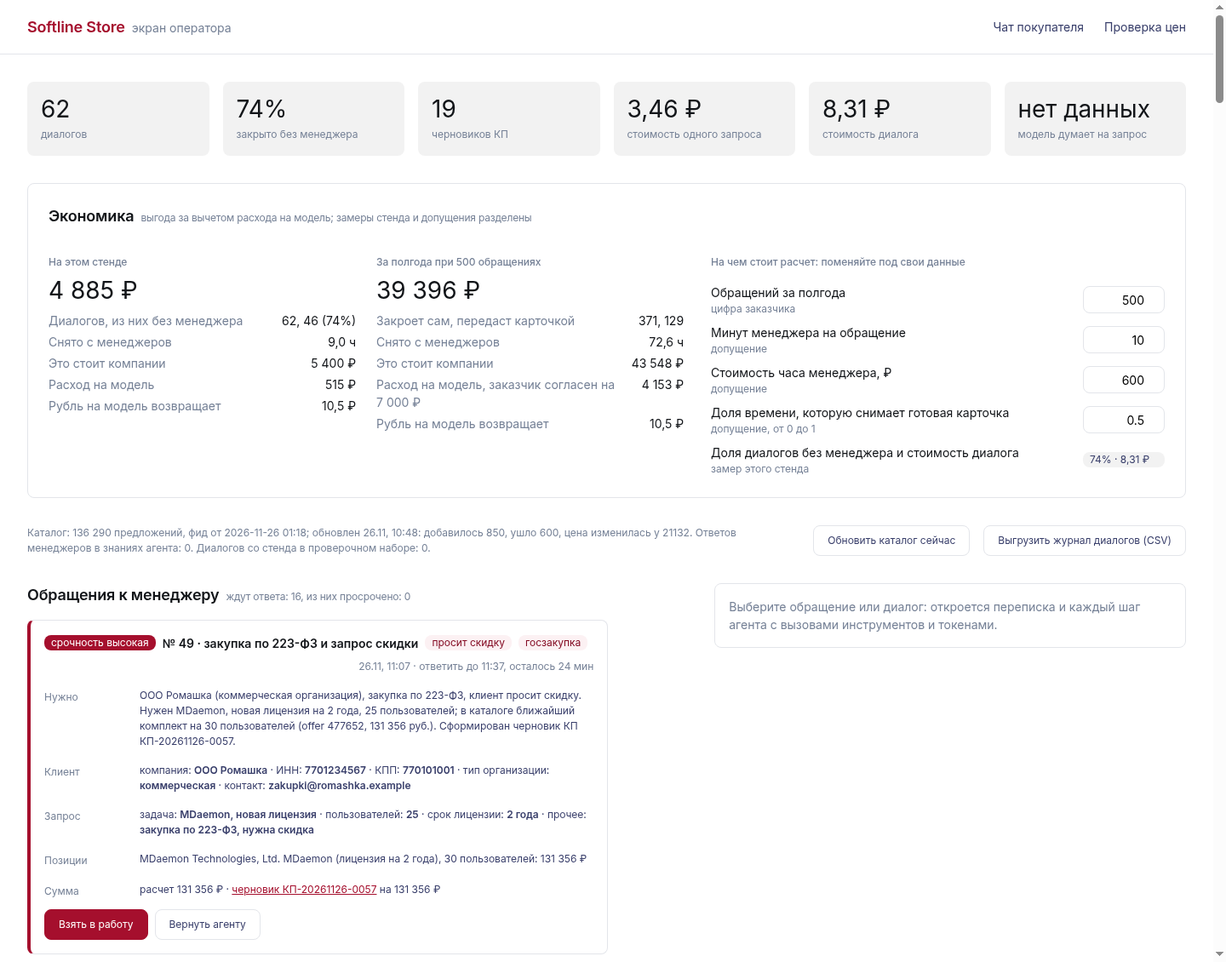
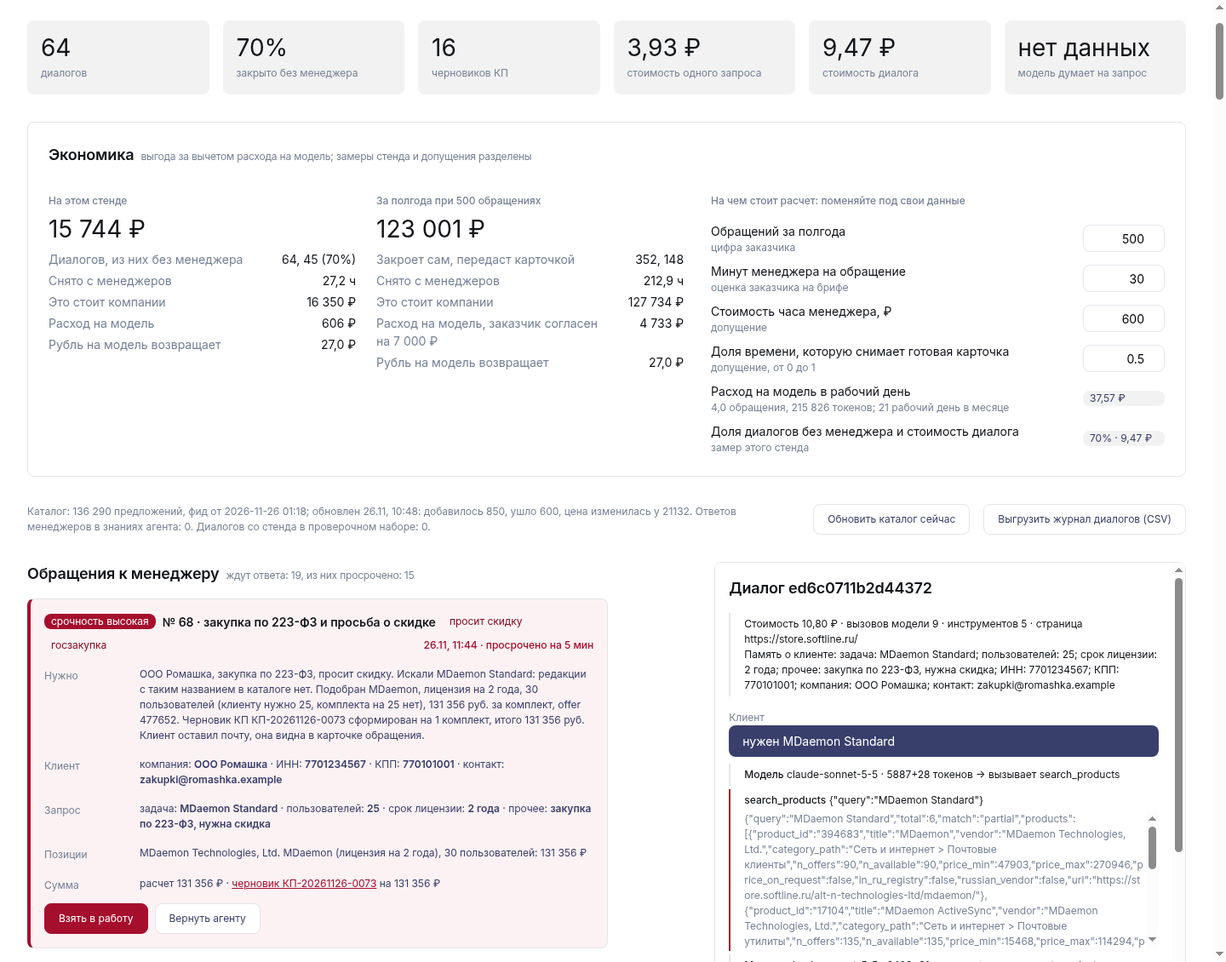
Правила передачи менеджеру после брифа: подбор до передачи, финальный прогон 57 из 63
- найденный продукт без названной редакции и вариант с ценой по запросу: агент ведет подбор и предлагает менеджера, обращение заводит по согласию клиента
- README и питч: цифры финального прогона, правила заказчика с брифа, расход в рабочий день
- экран оператора: новый снимок

diff --git a/app/agent/prompts.py b/app/agent/prompts.py
@@ -12,7 +12,9 @@ SYSTEM = """Вы консультант интернет-магазина Softli
 - Цена "по запросу": ни числа, ни порядка цифр не называйте, цену назовет менеджер.
 - Продукта нет в результатах поиска: скажите "в каталоге не нашел", покажите близкое по смыслу из каталога, \
 если оно есть, и передайте запрос менеджеру: Softline поставляет и то, чего нет на витрине. Не говорите \
-"не продаем" и не обобщайте на весь вендор.
+"не продаем" и не обобщайте на весь вендор. Продукт найден, а названной редакции, версии, срока или количества \
+у него нет: это не "продукта нет". Скажите, чего именно нет, покажите, что есть, и ведите подбор дальше; \
+менеджера здесь только предложите.
 - Поля нет в данных (артикул, срок, состав, совместимость): не упоминайте его и не додумывайте. Название \
 варианта бывает обрезано: чего в нем не видно, не домысливайте. Назначение пакета по одному названию не толкуйте.
 - Российский ли вендор, говорите только по полям russian_vendor и in_ru_registry. Отметки in_ru_registry нет: \
@@ -50,7 +52,8 @@ SYSTEM = """Вы консультант интернет-магазина Softli
 продукта. Ответа нет: скажите, чего именно в каталоге нет, и предложите передать вопрос менеджеру.
 - manager_answers в ответе инструмента: так менеджер уже отвечал на похожий вопрос. Опирайтесь на этот ответ.
 - Российский аналог или продукта нет в продаже: find_analogs.
-- Сумма за несколько лицензий или по нескольким позициям: calc_total. Сами не умножайте и не складывайте.
+- Сумма за несколько лицензий или по нескольким позициям: calc_total. Сами не умножайте и не складывайте. \
+Сумму и НДС из ответа make_quote называйте как есть, повторный calc_total для них не нужен.
 - КП или счет. Вариант и количество понятны: вызовите make_quote сразу, реквизиты для этого не обязательны. \
 Количества нет: спросите его. В графу "Заказчик" нужны название организации, ИНН и КПП (у ИП КПП нет): чего не \
 хватает, подскажет ответ make_quote, попросите это одним сообщением один раз; клиент ответил "да" или \
@@ -69,11 +72,14 @@ discount_percent в calc_total или make_quote и назовите цену с
 поданный запрос или заказ, который завис, "не могу дозвониться", \
 просьба позвать человека, жалобы, договоры и ЭДО, покупка из другой страны, утерянный ключ, помощь с \
 установкой, счета и подписки Google Workspace. И когда главный запрос клиента без менеджера не закрыть: \
-продукта нет в каталоге (скажите, что менеджер свяжется и подготовит КП); клиент хочет цену или КП на вариант \
-с ценой по запросу. \
-При госзакупке с понятными позициями сделайте и КП, и передачу. Во всех остальных случаях (отдельный вопрос, \
-на который нет ответа в каталоге и справке) менеджера только предложите: обращение заводите, когда клиент \
-согласился или оставил контакт. После передачи один раз попросите почту или телефон, если их нет: эта просьба \
+самого продукта нет в каталоге, а клиент хочет его купить или узнать цену (скажите, что менеджер свяжется и \
+подготовит КП); клиент прямо просит цену, КП или покупку варианта с ценой по запросу, а варианта с ценой под \
+его задачу в каталоге нет. \
+При госзакупке с понятными позициями сделайте и КП, и передачу. Во всех остальных случаях менеджера только \
+предложите и ведите подбор дальше: у продукта нет названной редакции; в подборе попался вариант с ценой по \
+запросу (сначала покажите вариант с ценой, если он есть); отдельный вопрос без ответа в каталоге и справке \
+(совместимость, состав, реестр, правила лицензирования). Обращение в этих случаях заводите, когда клиент прямо \
+согласился ("да", "передайте") или оставил контакт; новые подробности задачи согласием не считаются. После передачи один раз попросите почту или телефон, если их нет: эта просьба \
 не считается вторым вопросом. Сроков, исключений и скидки больше 5% не обещайте, чужую цену не подтверждайте.
 - [email] и [телефон] в сообщении клиента это его контакт, а [ИНН] и [КПП] его реквизиты: они скрыты \
 защитой. Клиент их дал, менеджер их увидит, в обращение и КП они подставятся сами. Не просите прислать их еще \

diff --git a/app/agent/tools.py b/app/agent/tools.py
@@ -295,8 +295,9 @@ TOOLS = [
                               "скидку или отсрочку; сами вы даете до 5, больше согласует менеджер"},
      }, ["items"])},
     {"name": "handoff_to_manager", "handler": _handoff,
-     "description": "Передать обращение менеджеру: цена по запросу, продукта нет в каталоге, скидка больше 5%, "
-                    "отсрочка, госзакупка, жалоба, вопрос вне каталога и базы знаний. В summary кратко: кто клиент, "
+     "description": "Передать обращение менеджеру: продукта нет в каталоге, клиент просит цену или КП на вариант с ценой "
+                    "по запросу, скидка больше 5%, госзакупка, жалоба, просьба позвать человека; вопрос вне "
+                    "каталога и базы знаний после согласия клиента. В summary кратко: кто клиент, "
                     "что нужно, что уже подобрано. На диалог хватает одного вызова: контакт и новые детали, "
                     "которые клиент сообщит после передачи, менеджер увидит в карточке обращения сам.",
      "parameters": _obj({

diff --git a/README.md b/README.md
@@ -19,55 +19,74 @@
 | Вопросы о продуктах и магазине | карточки вариантов из фида и `kb_search` по справке Softline и служебным страницам магазина, ответ со ссылкой на страницу |
 | "А есть ли российский аналог?" | `find_analogs`: ветки "(Импортозамещение)" из фида, номер реестра отечественного ПО из фида, справочник российских вендоров |
 | Черновик КП по шаблону (необязательное) | `make_quote`: PDF по шаблону заказчика, графа "Заказчик" с названием, ИНН и КПП, суммы и НДС считает код, пометка "черновик, проверяет менеджер" |
+| Сложный случай уходит оператору, клиент может позвать его сам | правило заказчика в инструкции: кого можно обслужить здесь и сейчас по каталогу и справке, обслуживает агент; тендер, продукт вне каталога, цена по запросу, жалоба уходят менеджеру. В чате есть кнопка "Позвать менеджера": обращение заводит код, модель для этого не вызывается |
+| Скидка: агент сам дает до 5%, остальное решает оператор | параметр `discount_percent` в `calc_total` и `make_quote`; потолок держит код, а не модель. Больше 5%, отсрочка и постоплата уходят менеджеру, клиенту прямо говорится, что отсрочки в магазине нет |
+| Персональные данные не уходят за границу (152-ФЗ) | почта, телефон, ИНН и КПП клиента заменяются метками до отправки в модель; настоящие значения код сам кладет в обращение и КП. Модель меняется настройкой, в том числе на российскую или в своем контуре |
 | Экономить время менеджеров | агент закрывает диалог сам либо передает обращение карточкой, которую собирает код: срочность, срок реакции, клиент, запрос, позиции, сумма, ссылка на черновик КП |
 | Каталог обновляется автоматически | сервер раз в сутки скачивает фид с адреса магазина и подменяет базу без остановки чата; обновление можно запустить кнопкой |
 | Логировать вопросы и ответы, учиться на ответах менеджеров | журнал всех диалогов с шагами агента и выгрузкой в CSV; ответ менеджера на обращение виден клиенту в чате, а общий ответ становится знанием агента для следующих клиентов |
 
 ## Цифры
 
-Финальный прогон проверочного набора: 26.11.2026, 61 диалог (145 реплик клиента), модель Claude Sonnet 5.5, каталог с живого фида магазина.
+Финальный прогон проверочного набора: 26.11.2026, 63 диалога (150 реплик клиента), модель Claude Sonnet 5.5, каталог с живого фида магазина.
 
 | Показатель | Значение |
 |---|---|
-| Диалогов прошло все проверки | 55 из 61 (90%) |
-| Закрыто без менеджера | 46 из 61 (75%) |
-| Агент ответил сам, без сбоя и пустого ответа | 61 из 61 |
-| Цены в ответах только из каталога | 61 из 61, проверке цен ни разу не пришлось править ответ |
+| Диалогов прошло все проверки | 57 из 63 (90%) |
+| Закрыто без менеджера (обращение менеджеру не заводилось) | 45 из 63 (71%) |
+| Агент ответил сам, без сбоя и пустого ответа | 63 из 63 |
+| Цены в ответах только из каталога | 63 из 63; проверка цен сработала один раз и чужую сумму до клиента не допустила |
 | Черновик КП там, где его просили | 7 из 7 |
-| Не обещал скидку там, где ее просили | 4 из 4 |
+| Скидка в пределах полномочий: не больше 5%, сверх этого ничего не обещано | 5 из 5 |
 | Оба примера из задачи ("нужен MDaemon Standard" и "не знаю, что нужно") | прошли все проверки |
-| Вызовов модели / инструментов на реплику клиента | 2,9 / 1,9 |
-| Токенов на реплику, среднее / медиана | 19 889 / 17 733 |
-| Стоимость реплики / диалога на Claude Sonnet 5.5 | 3,48 / 8,28 руб. |
+| Вызовов модели / инструментов на реплику клиента | 3,0 / 2,0 |
+| Токенов на реплику, среднее / медиана | 22 794 / 21 055 |
+| Стоимость реплики / диалога на Claude Sonnet 5.5 | 3,97 / 9,45 руб. |
 
-Как читать: "все проверки" это девять проверок кодом на каждый диалог (нужный инструмент, вопрос о недостающем параметре, передача менеджеру там, где она нужна, и только там, цены из каталога и другие). Шесть диалогов не прошли: в трех агент не задал уточняющий вопрос, которого ждал набор, в двух не передал обращение менеджеру, в одном не назвал ожидаемый продукт. Отчет и переписки каждого диалога пишет `python -m eval.run`. Эти же диалоги загружены на стенд, их видно на экране оператора.
+Как читать: "все проверки" это девять проверок кодом на каждый диалог (нужный инструмент, вопрос о недостающем параметре, передача менеджеру там, где она нужна, и только там, цены из каталога, скидка в пределах полномочий и другие). Шесть диалогов не прошли: в четырех агент не задал уточняющий вопрос, которого ждал набор, в одном не передал обращение менеджеру, в одном назвал продукт кириллицей ("РуПост"), а проверка ждала латиницу. Проверка цен сработала в одном диалоге: агент сам посчитал разницу между двумя ценами, код вернул ответ на переписывание, и эту сумму клиент не увидел. Отчет и переписки каждого диалога пишет `python -m eval.run`. Эти же диалоги загружены на стенд, их видно на экране оператора.
 
-Что прогон не доказывает: модель в прогоне работала через мост разработки (см. раздел "Модель"), токены посчитаны оценкой 3 знака на токен, время ответа модели не измерялось. После прогона правился код вокруг модели: контакт клиента и позиции КП в карточке обращения, скрытие контактов в истории диалога. Набор после этих правок не перезапускался.
+Как изменил цифры бриф. После брифа в инструкцию агента вошли правила заказчика: продукта нет в каталоге и цена по запросу означают менеджера. Первый прогон на них показал перекос: агент заводил обращение слишком рано, без менеджера осталось 57% диалогов, а пример заказчика "нужен MDaemon Standard" ушел менеджеру с первого сообщения, хотя продукт в каталоге есть. Правило сузили: если продукт найден, а названной редакции нет, или в подборе попался вариант с ценой по запросу, агент сначала ведет подбор и предлагает менеджера, а обращение заводит, когда клиент согласился или прямо просит цену на такой вариант. Финальный прогон шел на этой версии.
+
+Что прогон не доказывает: модель в прогоне работала через мост разработки (см. раздел "Модель"), токены посчитаны оценкой 3 знака на токен, время ответа модели не измерялось. Заказчик на брифе назвал целью быструю реакцию (сейчас менеджер отвечает в среднем через 2 минуты): скорость ответа агента нужно измерить на боевой модели, на реплику он делает в среднем три обращения к модели.
 
 ## Экономика
 
 Заказчик назвал объем: около 500 обращений за полгода, и подтвердил, что расход на модель 5-7 тыс. руб. за полгода его устраивает.
 
-Расход на модель по замеру прогона (19 570 входных и 319 выходных токенов на реплику, 2,38 реплики на диалог), цены с официальных страниц на 26.11.2026, курс ЦБ 82,3130 руб. за доллар:
+Расход на модель по замеру прогона (22 468 входных и 326 выходных токенов на реплику, 2,38 реплики на диалог), цены с официальных страниц на 26.11.2026, курс ЦБ 82,3130 руб. за доллар:
 
 | Модель | Цена за 1 млн токенов, вход / выход | Одна реплика | Диалог | 500 диалогов |
 |---|---|---|---|---|
-| Claude Sonnet 5.5 (на ней шли прогоны) | $2 / $10 | 3,48 руб. | 8,28 руб. | 4 142 руб. |
-| Claude Haiku 5.5 | $0,10 / $0,50 | 0,17 руб. | 0,41 руб. | 207 руб. |
-| Claude Opus 5.5 | $4 / $20 | 6,97 руб. | 16,57 руб. | 8 283 руб. |
-| GigaChat-2-Max | 650 / 650 руб. | 12,93 руб. | 30,73 руб. | 15 365 руб. |
-| GigaChat-2-Pro | 500 / 500 руб. | 9,94 руб. | 23,64 руб. | 11 819 руб. |
-| GigaChat-2-Lite | 65 / 65 руб. | 1,29 руб. | 3,07 руб. | 1 537 руб. |
-| YandexGPT Pro 5.1 | 800 / 800 руб. | 15,91 руб. | 37,82 руб. | 18 911 руб. |
-| Alice AI LLM | 500 / 1 200 руб. | 10,17 руб. | 24,17 руб. | 12 085 руб. |
-| Qwen3.6 35B в Yandex AI Studio | 200 / 300 руб. | 4,01 руб. | 9,53 руб. | 4 766 руб. |
-| DeepSeek V4.1 Flash в Yandex AI Studio | 300 / 500 руб. | 6,03 руб. | 14,33 руб. | 7 167 руб. |
+| Claude Sonnet 5.5 (на ней шли прогоны) | $2 / $10 | 3,97 руб. | 9,45 руб. | 4 723 руб. |
+| Claude Haiku 5.5 | $0,10 / $0,50 | 0,20 руб. | 0,47 руб. | 236 руб. |
+| Claude Opus 5.5 | $4 / $20 | 7,93 руб. | 18,89 руб. | 9 446 руб. |
+| GigaChat-2-Max | 650 / 650 руб. | 14,82 руб. | 35,28 руб. | 17 638 руб. |
+| GigaChat-2-Pro | 500 / 500 руб. | 11,40 руб. | 27,14 руб. | 13 568 руб. |
+| GigaChat-2-Lite | 65 / 65 руб. | 1,48 руб. | 3,53 руб. | 1 764 руб. |
+| YandexGPT Pro 5.1 | 800 / 800 руб. | 18,24 руб. | 43,42 руб. | 21 709 руб. |
+| Alice AI LLM | 500 / 1 200 руб. | 11,63 руб. | 27,68 руб. | 13 840 руб. |
+| Qwen3.6 35B в Yandex AI Studio | 200 / 300 руб. | 4,59 руб. | 10,93 руб. | 5 466 руб. |
+| DeepSeek V4.1 Flash в Yandex AI Studio | 300 / 500 руб. | 6,90 руб. | 16,44 руб. | 8 218 руб. |
 
-Прогоны шли на Claude Sonnet 5.5: расход на 500 обращений укладывается в сумму, которую назвал заказчик. На остальных моделях таблицы набор не прогонялся: это расчет по тем же токенам, качество ответов на них не проверено. Постоянная часть запроса (инструкция и описания инструментов) занимает около трех четвертей входных токенов, поэтому у моделей с кэшем промпта расход в два-три раза ниже; в таблице это не учтено. По странице тарифов GigaChat API на 26.11.2026 новые корпоративные клиенты не подключаются, а сервис для организаций с 01.12.2026 переезжает на cloud.ru: цену после переезда нужно проверить.
+Прогоны шли на Claude Sonnet 5.5: расход на 500 обращений укладывается в сумму, которую назвал заказчик. В пересчете на рабочий день (заказчик просил считать так) это около 4 обращений, 215 тыс. токенов и 37 руб. в день. На остальных моделях таблицы набор не прогонялся: это расчет по тем же токенам, качество ответов на них не проверено. Постоянная часть запроса (инструкция и описания инструментов) занимает около трех четвертей входных токенов, поэтому у моделей с кэшем промпта расход в два-три раза ниже; в таблице это не учтено. По странице тарифов GigaChat API на 26.11.2026 новые корпоративные клиенты не подключаются, а сервис для организаций с 01.12.2026 переезжает на cloud.ru: цену после переезда нужно проверить.
 
-Экран оператора считает выгоду: сколько часов менеджеров снято и сколько это стоит за вычетом расхода на модель. Доля диалогов без менеджера и стоимость диалога берутся из замера стенда. Минуты менеджера на обращение, стоимость его часа и польза карточки это допущения: они подписаны на экране и меняются там же, чтобы заказчик подставил свои числа. В материалах задачи времени обработки обращения менеджером нет.
+Экран оператора считает выгоду: сколько часов менеджеров снято и сколько это стоит за вычетом расхода на модель. Доля диалогов без менеджера и стоимость диалога берутся из замера стенда. Минуты менеджера на обращение взяты из оценки заказчика на брифе: порядка 30 минут там, где нужно искать и проверять по каталогу. Стоимость часа менеджера и польза карточки это допущения. Все три числа подписаны на экране и меняются там же. Там же показан расход на модель в рабочий день: заказчик просил считать в токенах и рублях за день.
 
 ## Ответы заказчика, учтенные в решении
+
+С брифа 26.11.2026 (запись расшифрована целиком):
+
+- Агент может дать скидку 5%, все остальное уходит оператору. Отсрочки и постоплаты в магазине нет.
+- Сложный случай: тендер, нужны дополнительные документы, продукта нет в каталоге (Softline поставит его через менеджера). Кого можно обслужить через магазин здесь и сейчас, обслуживает агент.
+- Статус заказа и закрывающие документы это простые вопросы: ответ есть в справке, клиента ведут в личный кабинет.
+- Товар с ценой считается в наличии. Товар с кнопкой "запросить цену" сейчас купить нельзя, только через менеджера.
+- Клиент должен иметь возможность переключиться на оператора кнопкой. Ответ менеджера клиент видит в том же чате.
+- При зарубежной облачной модели персональные данные клиентов туда передавать нельзя.
+- Менеджер сейчас отвечает клиенту в среднем через 2 минуты, цель задачи: быстрая реакция. На обращение, где нужно искать и проверять по каталогу, у менеджера уходит порядка 30 минут.
+- Стоимость использования: сколько токенов уходит в день и сколько это стоит.
+- Передача менеджеру засчитывается как плюс. Почта вне задачи: только чат.
+
+Из чата задачи:
 
 - Фид: https://store.softline.ru/feeds/Softline.yml.gz, полный каталог, обновляется несколько раз в сутки; агенту достаточно раз в сутки.
 - Логировать все вопросы и ответы агента; агента можно дообучать на реальных ответах менеджера.
@@ -103,6 +122,8 @@
 - **Контакты клиента.** Почта и телефон из сообщения клиента в модель не уходят: вместо них метки. Настоящий контакт код подставляет в обращение и в КП сам.
 - **Пределы.** Не больше 8 вызовов модели на реплику, повтор того же вызова не исполняется, предел времени на ход, предел сообщений в минуту с одного адреса, суточный потолок расхода на модель. При сбое клиент получает честный ответ, обращение уходит менеджеру.
 - **Служебные имена.** Имена полей и инструментов из данных до клиента не доходят: ответ с ними возвращается модели, а если она их оставила, имя убирает код.
+- **Скидка.** Агент называет цену со скидкой только из ответа `calc_total` или `make_quote`: код не пропустит больше 5%, сколько бы ни попросил клиент или ни передала модель.
+- **Реквизиты клиента.** ИНН и КПП из сообщения клиента модель не видит: код вынимает их по слову-метке, кладет в память диалога и в графу "Заказчик" КП.
 - **Чужие инструкции.** Текст клиента и адрес страницы для модели это данные; служебные метки из них вырезаются.
 
 ### Инструменты
@@ -122,7 +143,7 @@
 
 ## Экран оператора
 
-- **Карточка обращения.** Собирается кодом из памяти диалога в момент открытия, модель для этого не вызывается: срочность и срок реакции по теме (госзакупка и жалоба 30 минут, скидка и договор 4 часа, остальное сутки; сроки задает заказчик), пометки "просит скидку", "госзакупка", "цена по запросу", клиент с реквизитами и контактом, его запрос, показанные позиции, расчет и черновик КП. Менеджер берет обращение в работу или возвращает диалог агенту.
+- **Карточка обращения.** Собирается кодом из памяти диалога в момент открытия, модель для этого не вызывается: срочность и срок реакции по теме (госзакупка и жалоба 2 минуты, скидка и договор 5 минут, остальное 15 минут: по замеру заказчика менеджер сейчас отвечает в среднем через 2 минуты; сроки меняются настройкой), пометки "просит скидку", "госзакупка", "цена по запросу", клиент с реквизитами и контактом, его запрос, показанные позиции, расчет и черновик КП. Менеджер берет обращение в работу или возвращает диалог агенту.
 - **Ответ менеджера.** Уходит клиенту в чат, есть заготовки. Ответ, отмеченный как общий, попадает в поиск: на похожий вопрос следующего клиента агент ответит так же. Модель при этом не переобучается, а данные клиента в знания не попадают.
 - **В проверочный набор.** Диалог, где агент ошибся, одной кнопкой становится кейсом: оператор отмечает, как должно было быть, следующий прогон этот диалог проиграет.
 - **Экономика, журнал, каталог.** Выгода с допущениями, выгрузка всех диалогов в CSV, состояние каталога и кнопка обновления.
@@ -146,9 +167,9 @@
 
 ## Проверка качества
 
-- `pytest`: 168 тестов. Каталог и справка на данных заказчика, КП (суммы и НДС пересчитываются в тесте независимо), цикл агента на модели-сценарии (проверка цен, пределы, сбой модели, память, скрытие контактов), сервер и экран оператора (роли, лимиты, заголовки), обновление каталога.
-- `eval/cases.jsonl`: 61 проверочный диалог, 57 начинаются с реального обращения из переписок, два повторяют примеры заказчика. `python -m eval.run --min-pass 0.7` завершается с ошибкой, если доля диалогов без ошибок ниже порога.
-- По ходу спринта набор прогонялся пять раз: от 34 диалогов из 61 в первом прогоне до 55 в финальном. После третьего прогона правились и сами проверки: девять диалогов они браковали при верном ответе агента (например, не узнавали вопрос о сроке, заданный словом "год").
+- `pytest`: 170 тестов. Каталог и справка на данных заказчика, КП (суммы и НДС пересчитываются в тесте независимо), цикл агента на модели-сценарии (проверка цен, пределы, сбой модели, память, скрытие контактов), сервер и экран оператора (роли, лимиты, заголовки), обновление каталога.
+- `eval/cases.jsonl`: 63 проверочных диалога, 57 начинаются с реального обращения из переписок, два повторяют примеры заказчика, два добавлены после брифа (отсрочка и скидка больше 5%; статус заказа и закрывающие документы). `python -m eval.run --min-pass 0.7` завершается с ошибкой, если доля диалогов без ошибок ниже порога.
+- По ходу спринта набор прогонялся семь раз: от 34 диалогов из 61 в первом прогоне до 57 из 63 в финальном. После третьего прогона правились и сами проверки: девять диалогов они браковали при верном ответе агента (например, не узнавали вопрос о сроке, заданный словом "год").
 
 ## Модель
 
@@ -185,9 +206,11 @@ cp .env.example .env            # вписать ключ модели и ADMIN_
 
 ## Не сделано
 
-- Встраивание в действующий чат сайта и связь с CRM или 1С: по ответу заказчика не требуются, на стенде свой чат.
+- Встраивание в действующий чат сайта (у заказчика он работает на Webim) и связь с CRM или 1С: по ответу заказчика не требуются, на стенде свой чат.
+- Уведомление менеджеру в мессенджер: обращения приходят на экран оператора, отдельного сигнала в Telegram или почту нет.
 - Остатки и сроки поставки в реальном времени: в фиде есть только признак "в продаже" и цена.
-- Счет: агент его не выставляет, менеджер готовит счет по черновику КП.
+- Счет агент не формирует: клиент получает счет-оферту сам, когда оформляет заказ на сайте с оплатой по счету. Агент рассказывает это по справке и готовит черновик КП.
+- Фамилию и имя в свободном тексте код надежно не вырезает: скрываются почта, телефон, ИНН и КПП. Для боевого контура с требованиями 152-ФЗ модель ставится российская или в своем контуре.
 - Вход оператора по учетным записям: сейчас один ключ оператора на всех менеджеров.
 - Учет кэша промпта в расчете стоимости и замер времени ответа на боевой модели.
 - Корзина на витрине стенда: КП собирается в диалоге.

diff --git a/docs/pitch.md b/docs/pitch.md
@@ -4,17 +4,17 @@
 
 ## На одной странице
 
-**Проблема.** В переписках заказчика 495 обращений в чат магазина. 85,5% называют продукт, 42,4% спрашивают цену, 25,9% просят КП или счет, 9,5% не знают, что им нужно. Каждое такое обращение сегодня разбирает менеджер: находит лицензию среди 136 тыс. предложений, уточняет параметры, считает, оформляет.
+**Проблема.** В переписках заказчика 495 обращений в чат магазина. 85,5% называют продукт, 42,4% спрашивают цену, 25,9% просят КП или счет, 9,5% не знают, что им нужно. Каждое такое обращение сегодня разбирает менеджер: находит лицензию среди 136 тыс. предложений, уточняет параметры, считает, оформляет. По словам заказчика на брифе, первого ответа клиент ждет в среднем 2 минуты, а обращение, где нужно искать и проверять по каталогу, занимает у менеджера порядка 30 минут.
 
-**Решение.** Агент в чате сайта доводит клиента от вопроса до черновика КП и снимает с менеджера рутину, оставляя ему готовое обращение. Названный продукт он доводит до конкретной лицензии с артикулом и ценой, под задачу подбирает два варианта с обоснованием, по правилам магазина отвечает из справки. К менеджеру уходит то, что требует полномочий: скидки, госзакупки, жалобы, цена по запросу. Уходит карточкой, которую собирает код: срочность, срок реакции, клиент с реквизитами, запрос, позиции, сумма, черновик КП.
+**Решение.** Агент в чате сайта доводит клиента от вопроса до черновика КП и снимает с менеджера рутину, оставляя ему готовое обращение. Названный продукт он доводит до конкретной лицензии с артикулом и ценой, под задачу подбирает два варианта с обоснованием, по правилам магазина отвечает из справки. Скидку до 5% агент дает сам: это полномочие заказчик назвал на брифе. К менеджеру уходит то, что нельзя обслужить через магазин здесь и сейчас: скидка больше 5%, госзакупка, жалоба, цена по запросу, продукт вне каталога. Клиент может позвать менеджера и сам, кнопкой в чате. Обращение уходит карточкой, которую собирает код: срочность, срок реакции, клиент с реквизитами, запрос, позиции, сумма, черновик КП.
 
-**Цифры.** Финальный прогон 26.11.2026: 61 диалог, 57 из них начинаются с реальных обращений из переписок заказчика. 55 диалогов прошли все проверки, 46 (75%) закрыты без менеджера, цены только из каталога в 61 из 61, черновик КП сформирован во всех 7 диалогах, где его просили. Диалог стоит 8,28 руб. на Claude Sonnet 5.5: 500 обращений за полгода это около 4,1 тыс. руб. Заказчик назвал приемлемыми 5-7 тыс. руб.
+**Цифры.** Финальный прогон 26.11.2026: 63 диалога, 57 начинаются с реальных обращений из переписок заказчика. Все проверки прошли 57 диалогов (90%), без менеджера закрыты 45 (71%), цены только из каталога в 63 из 63, черновик КП сформирован во всех 7 диалогах, где его просили. Диалог стоит 9,45 руб. на Claude Sonnet 5.5: 500 обращений за полгода это около 4,7 тыс. руб., или 37 руб. в рабочий день. Заказчик назвал приемлемыми 5-7 тыс. руб. за полгода.
 
-**Границы.** Цены только из каталога: сумму в ответе сверяет код, чужую сумму клиент не увидит. Суммы и НДС считает код. Скидок агент не обещает и счет не выставляет. Почта и телефон клиента в модель не уходят. При любом сбое клиент получает ответ, а обращение уходит менеджеру.
+**Границы.** Цены только из каталога: сумму в ответе сверяет код, чужую сумму клиент не увидит. Суммы и НДС считает код. Скидка не больше 5%: потолок держит код, а не модель. Отсрочку и постоплату агент не обещает: в магазине их нет. Почта, телефон, ИНН и КПП клиента в модель не уходят. При любом сбое клиент получает ответ, а обращение уходит менеджеру.
 
 **Переносимость.** Каталог, справка и инструменты развязаны. Каталог обновляется с фида магазина сам, раз в сутки, без остановки чата. Модель меняется настройкой: GigaChat, любой сервис с OpenAI-совместимым API или модель в своем контуре. Связь с CRM или 1С это еще один инструмент, цикл агента при этом не меняется.
 
-**Что нужно для внедрения.** Ключ модели, адрес фида (уже подключен), ключи операторов. Заказчик задает сроки реакции по темам и подставляет свои числа в экономику.
+**Что нужно для внедрения.** Ключ модели, адрес фида (уже подключен), ключи операторов. Заказчик задает сроки реакции по темам, потолок скидки агента и подставляет свои числа в экономику.
 
 ## Показ за 90 секунд
 
@@ -25,30 +25,34 @@
 | 0:00 | Чат. Клиент пишет пример из задачи: "нужен MDaemon Standard" | Агент не выдумывает редакцию: в каталоге Standard нет, он говорит это прямо, показывает, что есть, с ценами из каталога и задает один вопрос |
 | 0:15 | "25 пользователей, новая лицензия, на 2 года" | Комплекта на 25 нет, агент предлагает ближайший на 30 за 131 356 руб. Под ответом видны шаги: какие инструменты вызваны, сколько токенов и рублей |
 | 0:30 | "Подготовьте КП на ООО Ромашка, ИНН 7701234567, КПП 770101001" | Черновик КП по шаблону Softline за один ход. Сумму и НДС считает код, графа "Заказчик" заполнена реквизитами |
-| 0:45 | "Закупка пойдет по 223-ФЗ, нужна скидка. Почта для связи: ..." | Скидку агент не обещает и передает обращение менеджеру. Почту модель не видела: в обращение ее подставил код |
-| 0:55 | Экран оператора, карточка обращения | Менеджер не читает переписку. Срочность высокая, срок реакции 30 минут, пометки "госзакупка" и "просит скидку", клиент с реквизитами, позиция, сумма, КП. Взять в работу или вернуть агенту |
-| 1:05 | Тот же экран, блок экономики | Три четверти диалогов закрыты без менеджера, диалог стоит около 8 рублей. При допущениях на экране это около 70 часов менеджеров за полгода на 500 обращениях. Допущения подписаны и меняются прямо здесь |
+| 0:45 | "Закупка пойдет по 223-ФЗ, нужна скидка. Почта для связи: ..." | Госзакупка по правилу заказчика это сложный случай: агент передает обращение менеджеру и условий не обещает. Почту модель не видела: в обращение ее подставил код |
+| 0:55 | Экран оператора, карточка обращения | Менеджер не читает переписку. Срочность высокая, срок реакции 2 минуты, пометки "госзакупка" и "просит скидку", клиент с реквизитами, позиция, сумма, КП. Взять в работу или вернуть агенту |
+| 1:05 | Тот же экран, блок экономики | Семь диалогов из десяти закрыты без менеджера, диалог стоит около 9 рублей. По оценке заказчика на обращение уходит 30 минут менеджера: на 500 обращениях за полгода это около 210 часов. Стоимость часа и польза карточки это допущения, они подписаны и меняются прямо здесь. Ниже расход на модель в день: 215 тыс. токенов, 37 рублей |
 | 1:15 | Страница "Проверка цен" | Модель называет выдуманную "специальную цену". Код ловит сумму, которой нет в каталоге: сначала возвращает ответ модели, а если она настаивает, вырезает сумму сам |
-| 1:25 | Экран оператора, кнопка "В проверочный набор" | 168 тестов и 61 проверочный диалог. Диалог, где агент ошибся, одной кнопкой становится проверкой для следующего прогона |
+| 1:25 | Экран оператора, кнопка "В проверочный набор" | 170 тестов и 63 проверочных диалога. Диалог, где агент ошибся, одной кнопкой становится проверкой для следующего прогона |
 
 ## Вопросы жюри
 
-**А если модель соврет с ценой?** Не дойдет до клиента. Каждая сумма в ответе сверяется кодом с данными каталога в этом диалоге. На странице `/proof` это видно на живом цикле агента, в тестах это `tests/test_loop.py`. В финальном прогоне проверке ни разу не пришлось править ответ: цены в 61 диалоге из 61 взяты из каталога.
+**А если модель соврет с ценой?** Не дойдет до клиента. Каждая сумма в ответе сверяется кодом с данными каталога в этом диалоге. На странице `/proof` это видно на живом цикле агента, в тестах это `tests/test_loop.py`. В финальном прогоне проверка сработала один раз: агент сам посчитал разницу между двумя ценами, код вернул ответ на переписывание, и клиент этой суммы не увидел. Цены в ответах клиентам взяты из каталога в 63 диалогах из 63.
 
-**А скидки?** Агент их не обещает: это отдельная проверка набора. Просьба о скидке сразу уходит менеджеру с пометкой "просит скидку".
+**А скидки?** До 5% агент дает сам: так заказчик решил на брифе. Потолок держит код: в расчете и в КП скидка не станет больше 5%, сколько бы ни просил клиент и что бы ни передала модель. Больше 5%, отсрочка и постоплата уходят менеджеру с пометкой "просит скидку". В наборе это отдельный диалог: клиент просит отсрочку, потом скидку, потом 15%.
+
+**Как клиент попадает к человеку?** Двумя путями. Агент передает обращение сам, когда случай нельзя обслужить через магазин: госзакупка, продукт вне каталога, цена по запросу, жалоба. Или клиент нажимает "Позвать менеджера": обращение заводит код, модель для этого не вызывается. Ответ менеджера клиент видит в том же чате.
 
 **Интеграция с CRM и 1С?** Заказчик ответил, что на хакатоне она не нужна. В решении единственная точка связи с внешними системами это инструменты: новая система добавляется одним инструментом.
 
 **Почему нет векторного поиска?** Клиенты называют продукт в 85% обращений, часто с опечатками и разговорно: "кес", "ксп", "астра орел". Артикулы и опечатки точнее ловит полнотекстовый поиск с триграммами и транслитом. Смысловой подбор ("защитить почту") делает модель через категории каталога.
 
-**Сколько стоит?** 8,28 руб. за диалог и 3,48 руб. за реплику на Claude Sonnet 5.5 по замеру прогона. На 500 обращений за полгода это около 4,1 тыс. руб.; заказчик подтвердил, что 5-7 тыс. руб. его устраивает. Расчет по другим моделям есть в README.
+**Сколько стоит?** 9,45 руб. за диалог и 3,97 руб. за реплику на Claude Sonnet 5.5 по замеру прогона. На 500 обращений за полгода это около 4,7 тыс. руб.; заказчик подтвердил, что 5-7 тыс. руб. его устраивает. В рабочий день это около 4 обращений, 215 тыс. токенов и 37 руб. Расчет по другим моделям есть в README.
+
+**Насколько быстро отвечает агент?** Не измерено: прогоны шли через мост разработки, времени ответа модели в них нет. На реплику агент делает в среднем три обращения к модели. Заказчик назвал целью быструю реакцию (сейчас первый ответ менеджера приходит в среднем через 2 минуты), поэтому замер на боевой модели это первый шаг после подключения ключа.
 
 **Почему Claude, а не российская модель?** Заказчик требований к модели не ставит. Прогоны шли на Claude Sonnet 5.5 через мост разработки. Модель меняется настройкой, готовы подключения GigaChat и любого OpenAI-совместимого сервиса; на них набор не прогонялся, это первый шаг после хакатона.
 
-**Откуда цифры экономики?** Доля диалогов без менеджера и стоимость диалога измерены прогоном. Минуты менеджера на обращение, стоимость его часа и польза карточки это допущения: времени обработки в материалах задачи нет. Они подписаны на экране, заказчик подставляет свои.
+**Откуда цифры экономики?** Доля диалогов без менеджера и стоимость диалога измерены прогоном. Минуты менеджера на обращение это оценка заказчика на брифе: порядка 30 минут там, где нужно искать и проверять по каталогу. Стоимость часа менеджера и польза карточки это допущения. Все три числа подписаны на экране, заказчик подставляет свои.
 
-**Что с персональными данными?** Почта и телефон заменяются метками до отправки в модель, настоящий контакт видит только менеджер. Без ключа оператора экран открыт на чтение, контакты и реквизиты скрыты. Журнал хранится 90 дней.
+**Что с персональными данными?** Заказчик на брифе назвал условие: при зарубежной облачной модели персональные данные клиентов туда передавать нельзя. Почта, телефон, ИНН и КПП заменяются метками до отправки в модель, настоящие значения код сам кладет в обращение и в КП, их видит только менеджер. Фамилию в свободном тексте код надежно не вырежет, поэтому для боевого контура модель ставится российская или в своем контуре: это одна настройка. Без ключа оператора экран открыт на чтение, контакты и реквизиты скрыты. Журнал хранится 90 дней.
 
 **Что будет, когда магазин изменит фид?** Уже было в спринте: живой фид оказался размечен иначе, чем файл из материалов. Сборка читает обе разметки, а сторож отменяет подмену базы, если параметры лицензий стали читаться хуже: чат продолжает работать по вчерашнему каталогу, причина видна оператору.
 
-**Что не сделано?** Счет агент не выставляет. Остатков и сроков поставки в фиде нет. Вход оператора сейчас по одному ключу. Время ответа на боевой модели не измерялось.
+**Что не сделано?** Счет агент не формирует: счет-оферту клиент получает сам при заказе на сайте, агент рассказывает как. Остатков и сроков поставки в фиде нет. Вход оператора сейчас по одному ключу. Уведомления менеджеру в мессенджер нет: обращения приходят на экран оператора. Время ответа на боевой модели не измерялось.
